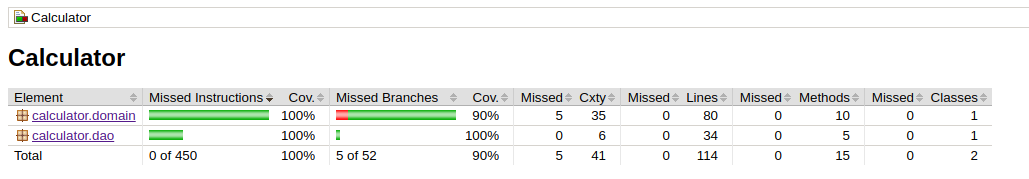
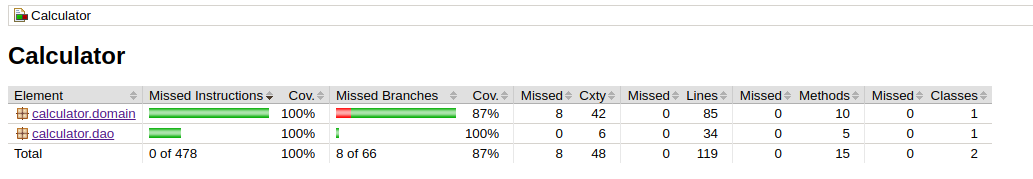
virheviestien estämistä

Changed region(s): [[0.0, 0.4749, 0.964, 0.8939], [0.0, 0.0279, 1.0, 0.1676], [0.0, 0.2514, 0.1244, 0.3911]]

diff --git a/Calculator/src/main/java/calculator/domain/Calculus.java b/Calculator/src/main/java/calculator/domain/Calculus.java
@@ -36,8 +36,7 @@ public class Calculus {
         if (parts.length < 3) {
             return s;
         }
-        if (parts[0].equals(".") || parts[2].equals(".") || parts[0].equals("-") || parts[2].equals("-")
-                || checkIfTooManyDots(s)) {
+        if (checkErrors(parts[0]) || checkErrors(parts[2]) || checkIfTooManyDotsOrMinuses(parts[0]) || checkIfTooManyDotsOrMinuses(parts[2])) {
             return "error";
         }
         double first = Double.valueOf(parts[0]);
@@ -57,7 +56,7 @@ public class Calculus {
      *
      * @param s laskimen näytössä oleva merkkijono
      * @return laskun vastaus merkkijonona, tai palauttaa parametrin jos
-     * laskussa ei yhtään numeroa
+     * laskussa ei yhtään numeroa, tai "error" jos lasku ei ollut validi.
      * @throws java.lang.Exception e
      */
     public String calculateTrigonometric(String s) throws Exception {
@@ -66,6 +65,9 @@ public class Calculus {
         }
         String firstChar = String.valueOf(s.charAt(0));
         String number = s.substring(4, s.length() - 1);
+        if (checkErrors(number) || checkIfTooManyDotsOrMinuses(number)) {
+            return "error";
+        }
         double answer = Double.valueOf(number);
         if (firstChar.equals("s")) {
             answer = Math.sin(answer);
@@ -119,20 +121,33 @@ public class Calculus {
         return last;
     }
 
-
-    private boolean checkIfTooManyDots(String s) {
+    private boolean checkIfTooManyDotsOrMinuses(String s) {
         boolean error = false;
 
         int dots = 0;
+        int minuses = 0;
         for (int i = 0; i < s.length(); i++) {
             String character = String.valueOf(s.charAt(i));
             if (character.equals(".")) {
                 dots++;
             }
+            if (character.equals("-")) {
+                minuses++;
+            }
         }
-        if (dots > 2) {
+        if (dots > 1 || minuses > 1) {
             error = true;
         }
+        return error;
+    }
+
+    private boolean checkErrors(String s) {
+        boolean error = false;
+
+        if (s.equals(".") || s.equals("-") || s.equals("-.") || s.equals(".-")) {
+            error = true;
+        }
+
         return error;
     }
 

diff --git a/Calculator/src/main/java/calculator/ui/UserInterface.java b/Calculator/src/main/java/calculator/ui/UserInterface.java
@@ -28,11 +28,25 @@ public class UserInterface extends Application {
     ArrayList<Button> buttons = new ArrayList<>();
     Calculus calculator;
 
+    /**
+     * Alustusmetodi. Calculus-olio luodaan parametrilla, joka kulkeutuu
+     * HistoryDao-luokkaan asti vastaamaan tietokannan nimestä.
+     *
+     * @throws Exception e
+     */
     @Override
     public void init() throws Exception {
         calculator = new Calculus("jdbc:h2:./database");
     }
 
+    /**
+     * Metodi vastaa yksinään koko käyttöliittymästä. Koodin selkeyttämiseksi ja
+     * toisteisuuden vähentämiseksi metodi kutsuu monia apumetodeja, mutta se on
+     * silti vähän liian pitkä.
+     *
+     * @param stage Pääikkuna
+     * @throws Exception e
+     */
     @Override
     public void start(Stage stage) throws Exception {
 
@@ -258,6 +272,7 @@ public class UserInterface extends Application {
 
     private Label addTrigonometricIntoScreen(String s, Label label) {
         if (!limit) {
+            negLimit = false;
             if (s.equals("sin")) {
                 label.setText("sin()");
             }
@@ -346,9 +361,13 @@ public class UserInterface extends Application {
                 label.setText("");
                 limit = false;
                 trigLimit = false;
+                negLimit = false;
             } else {
                 if (secondLast.equals(".")) {
                     dotLimit = false;
+                }
+                if (secondLast.equals("-")) {
+                    negLimit = false;
                 }
                 label.setText(s.substring(0, s.length() - 2) + ")");
             }

diff --git a/Calculator/src/test/java/domain/CalculusTest.java b/Calculator/src/test/java/domain/CalculusTest.java
@@ -75,6 +75,16 @@ public class CalculusTest {
     }
 
     @Test
+    public void properErrorMessage3() throws Exception {
+        assertEquals("error", calculator.calculate("--1-1-1 + -1-1"));
+    }
+
+    @Test
+    public void properErrorMessage4() throws Exception {
+        assertEquals("error", calculator.calculateTrigonometric("sin(.)"));
+    }
+
+    @Test
     public void getLastWorks() throws Exception {
         calculator.calculate("1 + 1");
         calculator.calculate("2 + 2");
